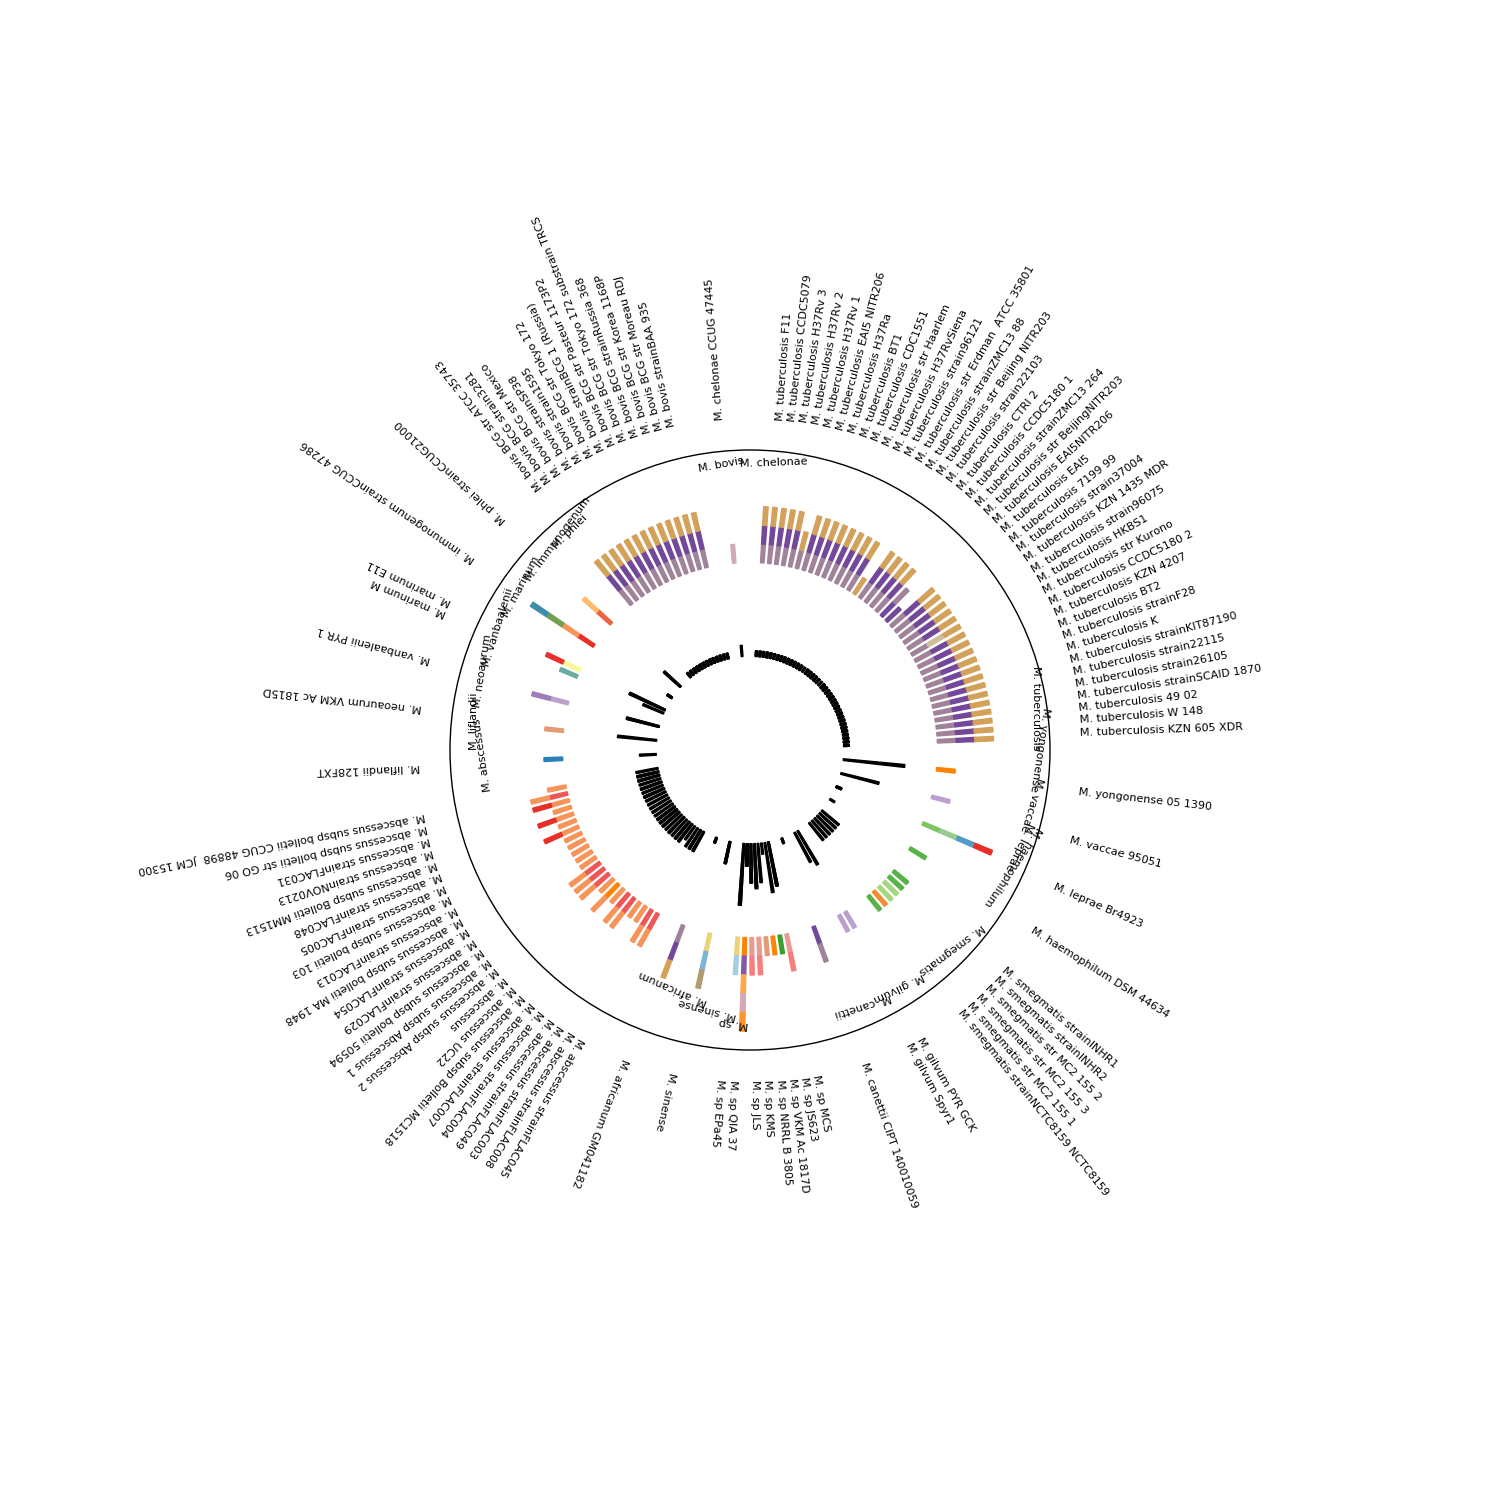
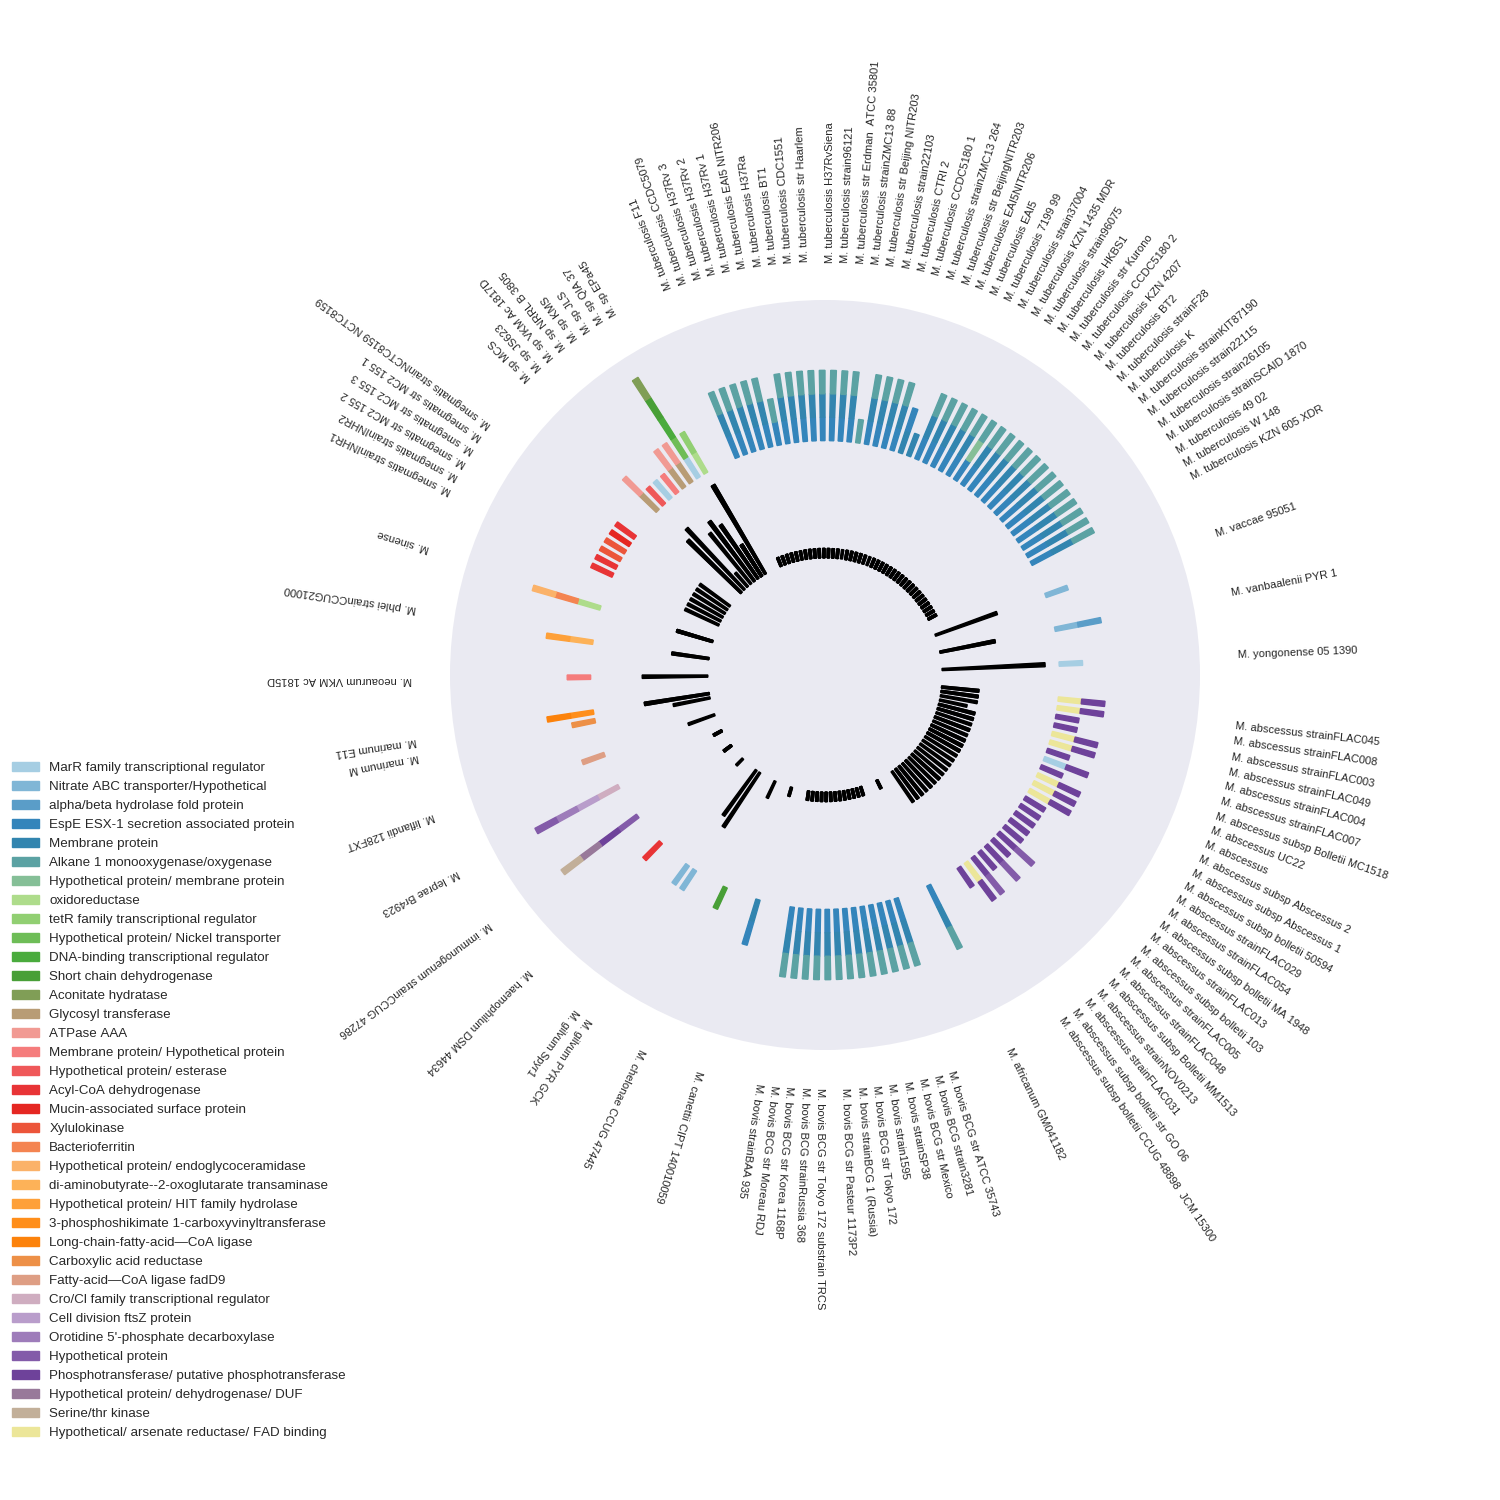
Dolly headache. Not mine.. not mine.. not mine...

diff --git a/Dolly/plot.py b/Dolly/plot.py
@@ -16,24 +16,27 @@ import os
 import math
 import matplotlib.cm as cm
 import numpy as np
+import random
 import pandas
 from collections import defaultdict
 
 import matplotlib as mpl
 import matplotlib.pyplot as plt
-# plt.style.use( 'ggplot' )
+print plt.style.available
+plt.style.use( 'seaborn-dark' )
+
 mpl.rcParams.update( { 'font.size' : 8 } )
 
+random.seed( 0 )
 
 families_ = { }
 targets_  = [ ]
+colors_ = {}
 
 def plotthis( data ):
     global families_, targets_
     families = set( data[ 'Species' ] )
     for i, family in enumerate( families ):
-        print '====='
-        print family
         items = data[ data['Species'] == family ]
         families_[ family ] = items
         [ targets_.append( x ) for x in list(items[ 'Annotation' ] ) ]
@@ -41,15 +44,15 @@ def plotthis( data ):
 
     # start plotting
     fig = plt.figure( figsize=(15, 15) )
-    ax = fig.add_axes( [0.3, 0.3, 0.4, 0.4 ], polar = True )
-    plt.grid( False )
+    pad_ = 0.25
+    ax = fig.add_axes( [0.3, 0.3, 0.5, 0.5 ], polar = True )
+    ax.grid( False )
     # ax.axis( 'off' )
-
 
     theta = 0.0
     spacing = 3
     totalSpokes = len( set(data['Strain'] ) )
-    print( 'total spokes %d' % totalSpokes )
+    print(( 'total spokes %d' % totalSpokes ))
     stepTheta = 2 * np.pi /  ( totalSpokes + spacing * len( families_) )
 
     bottom_ = 100
@@ -58,13 +61,15 @@ def plotthis( data ):
     # maxW = 150
     thetaGridPos, thetaGridLabels = [ ], [ ]
     groupPos, groupLabel = [], []
-    for family in families_:
+    legends = [ ]
+    cmap = cm.get_cmap( 'Paired', lut = 40 )
+    for family in sorted( families_, reverse = True ):
         groupLabel.append( family )
         groupPos.append( theta )
 
         group = families_[ family ]
         groupSize = len( group )
-        print( 'Goup %s size %d' % ( family, groupSize ) )
+        print(( 'Goup %s size %d' % ( family, groupSize ) ))
         # print( '\t%s' % rnas )
         allTargets = list( set( group[ 'Annotation' ] ) )
         for gi, item in enumerate( set(group[ 'Strain' ]) ):
@@ -72,16 +77,25 @@ def plotthis( data ):
             theta += stepTheta
             for i, t in enumerate(targets):
                 # print( '+ %s is targets' % t )
-                clr = cm.Paired( 7 * targets_.index( t ) )
+                label_ = '_nolegend_'
+                if t not in legends:
+                    label_ = t.decode('utf-8')
+                    legends.append( t )
+                    colors_[ t ] =  len( colors_ )
+                clr = cmap( colors_[t] )
+                # x = len( legends ) / 40.0
+                # clr = ( x, 0, x )
                 bar = ax.bar( theta
                         , spokeLen
                         , 0.5*stepTheta
                         # , bottom = bottom_ + allTargets.index( t ) * spokeLen 
                         , bottom = bottom_ + i * spokeLen 
                         , color = clr , edgecolor = clr
+                        , label = label_
                         )
+
                 proteinBar = ax.bar( theta
-                        , 3 * getAntarProteinMean( item, data )
+                        , 4 * getAntarProteinMean( item, data )
                         , 0.5 * stepTheta
                         , bottom = 50
                         , color = 'black'
@@ -93,23 +107,26 @@ def plotthis( data ):
         theta += spacing * stepTheta
 
     # Set family names
-    ax.set_yticks( [], [] )
+    ax.set_yticks( [] , [] )
     set_label( ax, thetaGridPos, thetaGridLabels )
-    maxW = 150
-    for x, p in zip( groupPos, groupLabel ):
-        l = ax.annotate( p, xy = (x, maxW), xytext = (x, maxW) )
-        ang = 180 * x / np.pi 
-        l.set_rotation( ang - 90 )
-        l.set_ha( 'left' )
-        l.set_va( 'bottom' )
+    # maxW = 150
+    # for x, p in zip( groupPos, groupLabel ):
+        # l = ax.annotate( p, xy = (x, maxW), xytext = (x, maxW) )
+        # ang = 180 * x / np.pi 
+        # l.set_rotation( ang - 90 )
+        # l.set_ha( 'left' )
+        # l.set_va( 'bottom' )
         # if ang > 90 and ang < 180:
             # l.set_va( 'bottom' )
         # if ang < 180:
             # l.set_va( 'bottom' )
         # elif ang > 180:
             # l.set_va( 'top' )
-        print x, p
+        # print x, p
     print( 'Saved to result.png' )
+    plt.legend( loc = 2, framealpha = 0.0
+            , bbox_to_anchor = (-0.6, 0.4 )
+            )
     plt.savefig( 'result.png' )
 
 def getAntarProteinMean( s, data ):
@@ -129,8 +146,6 @@ def set_label( ax, pos, labels, frac = 1.1 ):
         elif ang > 180:
             l.set_va( 'top' )
         
-
-
 def main():
     """docstring for main"""
     data = pandas.read_table( sys.argv[1] )
